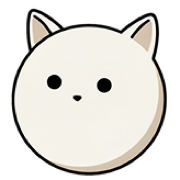
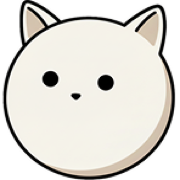
style: add responsive horizontal padding for tablet viewports
- Add sm:px-[26%] padding to header sections across app pages for tablet layout consistency
- Add sm:px-[26%] padding to content areas (home, join, learn, practice, loading pages)
- Add sm:max-w-[620px] sm:mx-auto to activity card grids for centered layout on larger screens
- Add sm:max-w-[420px] sm:mx-auto to achievements grid for proper spacing
- Wrap multiplayer card in responsive container for consistent max-width constraint
- Add sm:gap-4 to achievements grid for improved spacing on tablet devices
- Update loading skeleton to match responsive padding and grid constraints
- Ensures consistent visual hierarchy and content width across all screen sizes

diff --git a/src/app/(app)/page.tsx b/src/app/(app)/page.tsx
@@ -87,7 +87,7 @@ export default async function HomePage() {
       <OverscrollColor top="#2F54BA" bottom="#F3F4F6" />
 
       {/* ── Blue header ── */}
-      <div className="bg-bsp-blue px-5 pt-8">
+      <div className="bg-bsp-blue px-5 sm:px-[26%] pt-8">
 
         {/* User row */}
         <div className="flex items-center justify-between mb-5">
@@ -165,7 +165,7 @@ export default async function HomePage() {
       </div>
 
       {/* ── Content area ── */}
-      <div className="bg-gray-100 px-4 pt-4 pb-6 flex-1">
+      <div className="bg-gray-100 px-4 sm:px-[26%] pt-4 pb-6 flex-1">
 
         {/* Section title */}
         <h2 className="mb-5 text-base leading-snug">
@@ -175,7 +175,7 @@ export default async function HomePage() {
         </h2>
 
         {/* 2-col activity cards */}
-        <div className="grid grid-cols-2 gap-3 mb-4">
+        <div className="grid grid-cols-2 gap-3 mb-4 sm:max-w-[620px] sm:mx-auto">
           <ActivityCard
             href="/escribiendo"
             imageSrc="/images/home/escribiendo.png"
@@ -198,6 +198,7 @@ export default async function HomePage() {
         </div>
 
         {/* Battle / Multiplayer card */}
+        <div className="sm:max-w-[620px] sm:mx-auto">
         <ActivityCard
           href="/room"
           imageSrc="/images/home/multiplayer.png"
@@ -210,6 +211,7 @@ export default async function HomePage() {
           buttonRight="10%"
           buttonWidth="w-24"
         />
+        </div>
 
       </div>
       <NotificationQueue />

diff --git a/src/app/(app)/loading.tsx b/src/app/(app)/loading.tsx
@@ -1,7 +1,7 @@
 export default function HomeLoading() {
   return (
     <div className="flex flex-col animate-pulse">
-      <div className="bg-bsp-blue px-5 pt-8 pb-8">
+      <div className="bg-bsp-blue px-5 sm:px-[26%] pt-8 pb-8">
         <div className="flex items-center justify-between mb-5">
           <div className="w-9 h-9 rounded-full bg-white/20" />
           <div className="flex gap-2">
@@ -18,13 +18,13 @@ export default function HomeLoading() {
         </svg>
       </div>
 
-      <div className="bg-gray-100 px-4 pt-4 pb-6 flex-1">
+      <div className="bg-gray-100 px-4 sm:px-[26%] pt-4 pb-6 flex-1">
         <div className="h-5 w-48 bg-gray-300 rounded mb-5" />
-        <div className="grid grid-cols-2 gap-3 mb-4">
+        <div className="grid grid-cols-2 gap-3 mb-4 sm:max-w-[620px] sm:mx-auto">
           <div className="aspect-[9/16] bg-gray-300 rounded-2xl" />
           <div className="aspect-[9/16] bg-gray-300 rounded-2xl" />
         </div>
-        <div className="h-32 bg-gray-300 rounded-2xl" />
+        <div className="h-32 bg-gray-300 rounded-2xl sm:max-w-[620px] sm:mx-auto" />
       </div>
     </div>
   )

diff --git a/src/app/(app)/practice/page.tsx b/src/app/(app)/practice/page.tsx
@@ -54,7 +54,7 @@ export default function LioDeTiemposPage() {
       <OverscrollColor top="#2F54BA" bottom="#ffffff" />
 
       {/* ── Blue header ── */}
-      <div className="relative bg-bsp-blue px-5 pt-8 pb-12 overflow-hidden">
+      <div className="relative bg-bsp-blue px-5 sm:px-[26%] pt-8 pb-12 overflow-hidden">
         <Image src="/images/lio-de-tiempos/background.png" alt="" fill className="object-cover opacity-20 pointer-events-none select-none scale-[1.3] translate-x-[15%]" />
         <div className="relative flex items-center justify-between mb-3">
           <div className="relative w-9 h-9 shrink-0">
@@ -89,7 +89,7 @@ export default function LioDeTiemposPage() {
 
       {/* ── Content ── */}
       <div className="bg-white flex-1 pt-5 pb-24">
-        <p className="px-5 text-sm font-black text-gray-900 mb-6">Choose your battle</p>
+        <p className="px-5 sm:px-[26%] text-sm font-black text-gray-900 mb-6">Choose your battle</p>
         <BattleCarousel onPlay={handlePlay} />
       </div>
 

diff --git a/src/app/(app)/escribiendo/page.tsx b/src/app/(app)/escribiendo/page.tsx
@@ -69,7 +69,7 @@ export default function EscribiendoPage() {
       <OverscrollColor top="#2F54BA" bottom="#ffffff" />
 
       {/* ── Blue header ── */}
-      <div className="relative bg-bsp-blue px-5 pt-8 pb-12 overflow-hidden">
+      <div className="relative bg-bsp-blue px-5 sm:px-[26%] pt-8 pb-12 overflow-hidden">
         <Image src="/images/escribiendo/background.png" alt="" fill className="object-cover opacity-20 pointer-events-none select-none scale-[1.3] translate-x-[15%]" />
         <div className="relative flex items-center justify-between mb-3">
           <div className="relative w-9 h-9 shrink-0">
@@ -104,7 +104,7 @@ export default function EscribiendoPage() {
 
       {/* ── Content ── */}
       <div className="bg-white flex-1 pt-5 pb-24">
-        <p className="px-5 text-sm font-black text-gray-900 mb-6">Choose your tense</p>
+        <p className="px-5 sm:px-[26%] text-sm font-black text-gray-900 mb-6">Choose your tense</p>
         <TenseCarousel onPlay={handlePlay} />
       </div>
 

diff --git a/src/app/(app)/profile/loading.tsx b/src/app/(app)/profile/loading.tsx
@@ -1,7 +1,7 @@
 export default function ProfileLoading() {
   return (
     <div className="flex flex-col animate-pulse">
-      <div className="bg-bsp-blue px-5 pt-10 pb-6">
+      <div className="bg-bsp-blue px-5 sm:px-[26%] pt-10 pb-6">
         <div className="flex items-center gap-4 mb-5">
           <div className="w-20 h-20 rounded-full bg-white/20" />
           <div className="flex flex-col gap-2">
@@ -23,7 +23,7 @@ export default function ProfileLoading() {
         </svg>
       </div>
 
-      <div className="bg-gray-100 px-4 pt-4 pb-28 flex flex-col gap-4">
+      <div className="bg-gray-100 px-4 sm:px-[26%] pt-4 pb-28 flex flex-col gap-4">
         <div className="bg-white rounded-2xl p-5 h-64" />
         <div className="bg-white rounded-2xl p-5 h-80" />
         <div className="bg-white rounded-2xl p-5 h-48" />

diff --git a/src/app/(app)/learn/page.tsx b/src/app/(app)/learn/page.tsx
@@ -345,7 +345,7 @@ export default function LearnLandingPage() {
       <OverscrollColor top="#2F54BA" bottom="#ffffff" />
 
       {/* Header */}
-      <div className="bg-bsp-blue px-5 pt-8 pb-12">
+      <div className="bg-bsp-blue px-5 sm:px-[26%] pt-8 pb-12">
         <div className="flex items-center justify-between mb-3">
           <div className="relative w-9 h-9 shrink-0">
             <Image src={avatar} alt="Avatar" fill sizes="36px" className="object-contain" />
@@ -373,7 +373,7 @@ export default function LearnLandingPage() {
       </div>
 
       {/* Content */}
-      <div className="bg-white flex-1 pt-4 pb-24 px-5 flex flex-col gap-8">
+      <div className="bg-white flex-1 pt-4 pb-24 px-5 sm:px-[26%] flex flex-col gap-8">
 
         {/* Stat pills */}
         <div className="flex gap-3 -mt-14">

diff --git a/src/app/(app)/profile/page.tsx b/src/app/(app)/profile/page.tsx
@@ -148,7 +148,7 @@ export default async function ProfilePage() {
       <OverscrollColor top="#2F54BA" bottom="#F3F4F6" />
 
       {/* Blue header */}
-      <div className="bg-bsp-blue px-5 pt-10 pb-6">
+      <div className="bg-bsp-blue px-5 sm:px-[26%] pt-10 pb-6">
 
         {/* Avatar + name */}
         <div className="flex items-center gap-4 mb-5">
@@ -207,7 +207,7 @@ export default async function ProfilePage() {
       </div>
 
       {/* Scrollable content */}
-      <div className="bg-gray-100 px-4 pt-4 pb-28 flex flex-col gap-4">
+      <div className="bg-gray-100 px-4 sm:px-[26%] pt-4 pb-28 flex flex-col gap-4">
 
         {/* Practice Time */}
         <div className="bg-white rounded-2xl p-5">

diff --git a/src/components/game/BattleCarousel.tsx b/src/components/game/BattleCarousel.tsx
@@ -188,7 +188,7 @@ export default function BattleCarousel({ onPlay, contained = false }: { onPlay: 
       <AnimatePresence mode="wait">
         <motion.div
           key={renderIndex}
-          className="px-6 flex flex-col items-center gap-1.5 mt-2"
+          className="px-6 flex flex-col items-center gap-1.5 mt-2 sm:max-w-[620px] sm:mx-auto"
           initial={{ opacity: 0, y: 10 }}
           animate={{ opacity: 1, y: 0 }}
           exit={{ opacity: 0, y: -10 }}

diff --git a/src/components/game/TenseCarousel.tsx b/src/components/game/TenseCarousel.tsx
@@ -260,7 +260,7 @@ export default function TenseCarousel({ onPlay, contained = false }: { onPlay: (
       <AnimatePresence mode="wait">
         <motion.div
           key={renderIndex}
-          className="px-6 flex flex-col items-center gap-1.5 mt-2"
+          className="px-6 flex flex-col items-center gap-1.5 mt-2 sm:max-w-[620px] sm:mx-auto"
           initial={{ opacity: 0, y: 10 }}
           animate={{ opacity: 1, y: 0 }}
           exit={{ opacity: 0, y: -10 }}

diff --git a/src/app/(app)/profile/AchievementsGrid.tsx b/src/app/(app)/profile/AchievementsGrid.tsx
@@ -23,7 +23,7 @@ export default function AchievementsGrid({ unlockedIds }: Props) {
 
   return (
     <div className="flex flex-col">
-      <div className="grid grid-cols-5 gap-2">
+      <div className="grid grid-cols-5 gap-2 sm:gap-4 sm:max-w-[420px] sm:mx-auto">
         {ORDER.map(id => {
           const a = ACHIEVEMENTS[id]
           const isUnlocked = unlocked.has(id)

diff --git a/src/app/(app)/room/page.tsx b/src/app/(app)/room/page.tsx
@@ -119,7 +119,7 @@ export default function RoomPage() {
       </div>
 
       {/* ── Content ── */}
-      <div className="bg-gray-100 flex-1 px-5 pt-6 pb-28 flex flex-col gap-4">
+      <div className="bg-gray-100 flex-1 px-5 sm:px-[26%] pt-6 pb-28 flex flex-col gap-4">
 
         <p className="text-sm font-black text-gray-900">Choose your role</p>
 

diff --git a/src/app/(app)/join/page.tsx b/src/app/(app)/join/page.tsx
@@ -150,7 +150,7 @@ export default function JoinPage() {
       </div>
 
       {/* ── Content ── */}
-      <div className="bg-gray-100 flex-1 px-5 pt-6 pb-8 flex flex-col gap-4">
+      <div className="bg-gray-100 flex-1 px-5 sm:px-[26%] pt-6 pb-8 flex flex-col gap-4">
 
         {/* Session Code card */}
         <div
